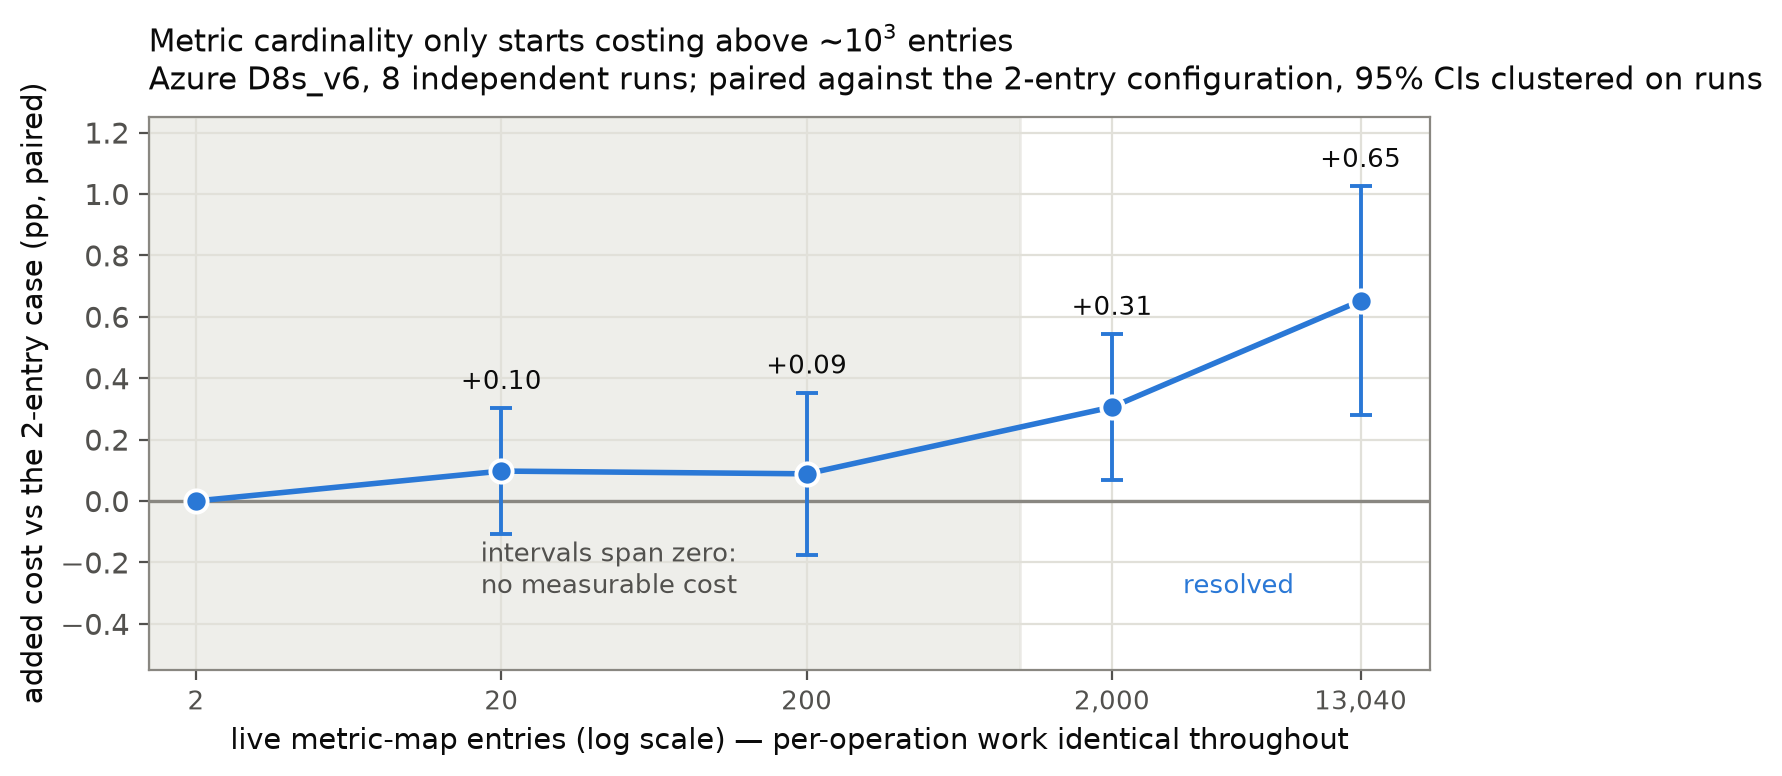
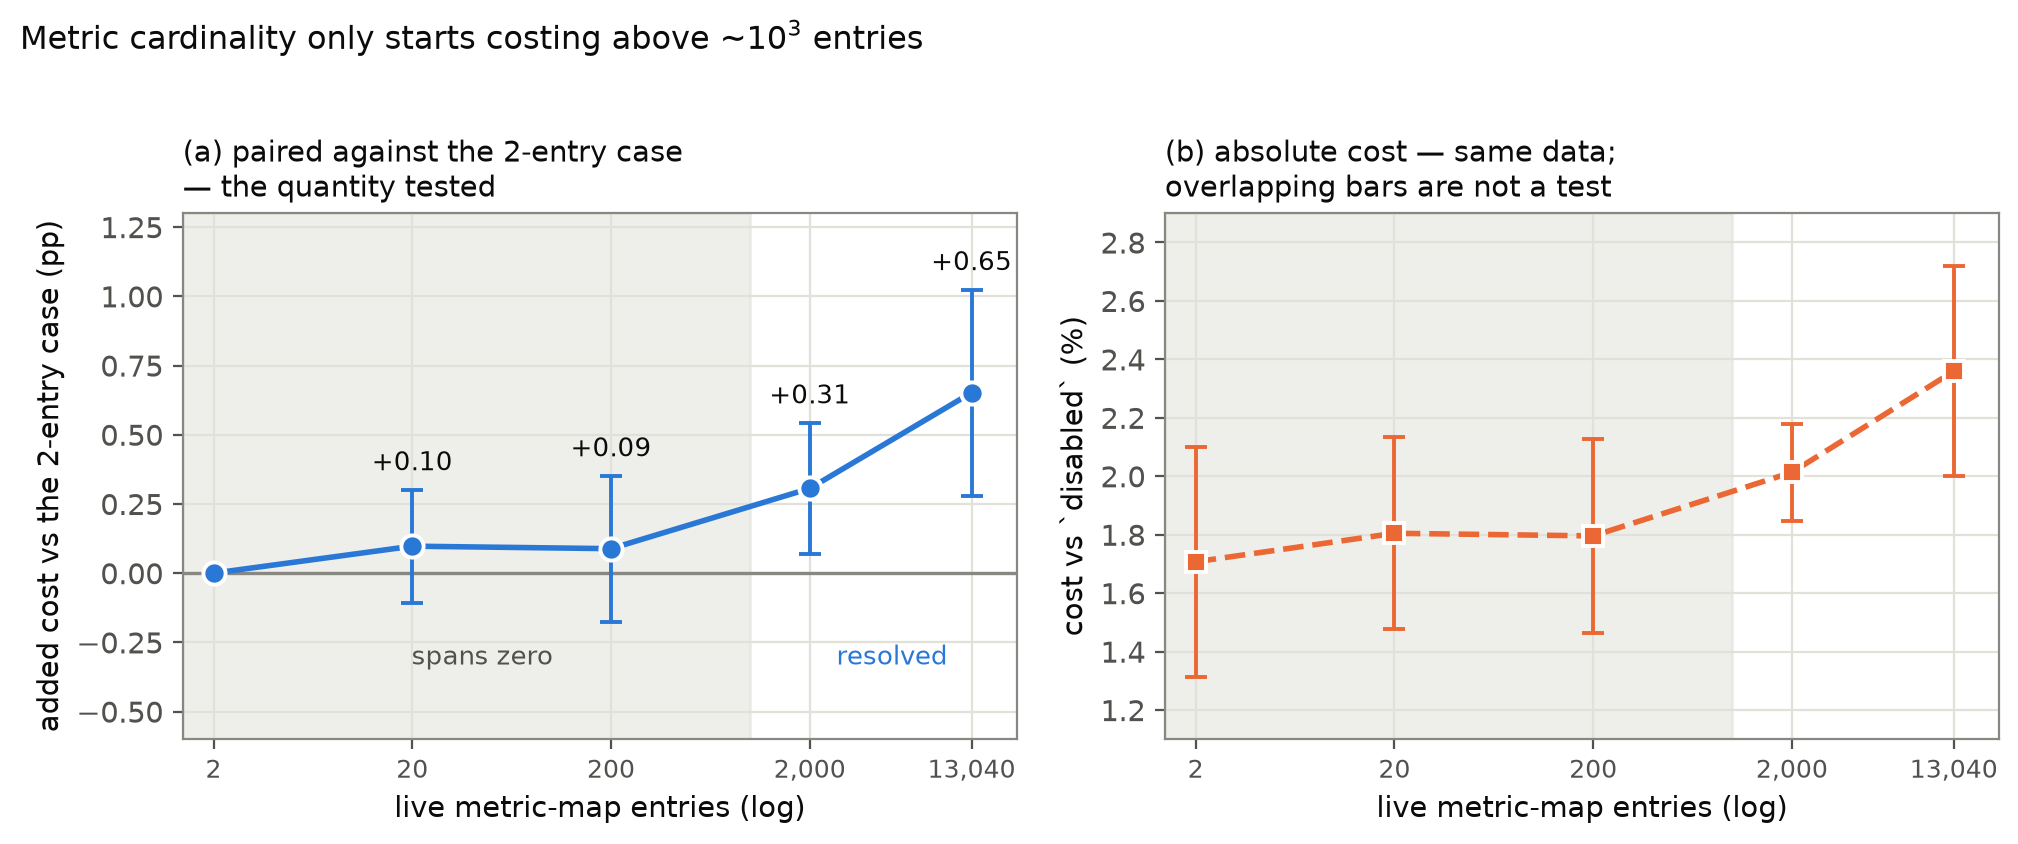
Show the cardinality curve both ways; rename paper to final_paper_v27.md
Figure 4 becomes two panels from the same data: (a) the paired difference
against the 2-entry configuration, which is the quantity actually tested, and
(b) each configuration's absolute cost. Panel (b) earns its place by showing
the error a reader makes without it: the absolute intervals overlap between
adjacent cardinalities, which resembles "no difference", but overlapping
intervals are not a test of a difference.

Corrects a claim I had put in that figure's title. I had asserted the
absolute intervals were "~3x wider" than the paired ones; measured, the
ratios are 1.61, 1.26, 0.70 and 0.97 -- comparable, and at 2,000 entries the
absolute interval is the narrower of the two. The paired comparison wins by
removing the baseline instrumentation cost common to every cardinality, not
by being tighter, and the caption now says that instead.

Renames docs/paper_design_axes.md to docs/final_paper_v27.md and updates
every reference in the READMEs, the follow-up protocol, and the three
scripts.

diff --git a/scripts/generate_design_axes_figures.py b/scripts/generate_design_axes_figures.py
@@ -1,5 +1,5 @@
 #!/usr/bin/env python3
-"""Figures for the design-axis paper (docs/paper_design_axes.md).
+"""Figures for the design-axis paper (docs/final_paper_v27.md).
 
 Every value plotted is recomputed here by importing the same helper functions
 that scripts/analyze_design_axes.py uses for its tables, so the figures and the
@@ -237,13 +237,21 @@ FOLLOWUP = ROOT / "experiments" / "azure_d8s_v6_followup" / "pooled" / "raw_data
 
 
 def figure4() -> None:
-    """Paired cost increase vs the 2-entry reference, as entry count sweeps.
+    """Cardinality curve, shown two ways.
 
-    Plots the PAIRED difference against the C=1 configuration, not each
-    configuration's absolute cost. That is the quantity actually tested: the
-    paired form cancels each run's level, so its interval is far tighter than
-    the absolute cost's and the resolved/unresolved verdict matches the bars a
-    reader sees.
+    (a) The PAIRED difference against the 2-entry configuration -- the quantity
+        actually tested, whose interval the resolved/unresolved verdict rests on.
+    (b) Each configuration's ABSOLUTE cost -- the magnitude a practitioner
+        budgets against.
+
+    Both are plotted because reading (b) alone invites a specific error. The
+    absolute intervals overlap heavily between adjacent cardinalities, which
+    looks like "no difference" -- but overlapping intervals are not a test of a
+    difference, and the paired comparison in (a), which cancels each run's
+    level before differencing, resolves the same effect cleanly. The two panels
+    carry the same data; only (a) is a hypothesis test. (The intervals are of
+    broadly similar width: the paired form wins by removing the shared baseline
+    cost, not by being tighter.)
     """
     if not FOLLOWUP.exists():
         print("  (skipping figure 4: follow-up dataset not present)")
@@ -252,42 +260,63 @@ def figure4() -> None:
     # data-plane entries = achieved - 2 control-plane entries (PING, CMDSTAT)
     points = [(1, 2), (10, 20), (100, 200), (1000, 2000), (10000, 13040)]
     base = "sharded_bucketed_c1"
-    xs, ys, los, his = [], [], [], []
-    for c, entries in points:
+    ent = [e for _, e in points]
+
+    paired, abso = [], []
+    for c, _ in points:
         cfg = f"sharded_bucketed_c{c}"
+        a = cluster_ci(by_run(blocks, lambda b, cfg=cfg: cost(b, cfg, "throughput")))
+        abso.append(a)
         if cfg == base:
-            xs.append(entries); ys.append(0.0); los.append(0.0); his.append(0.0)
-            continue
-        m, lo, hi = cluster_ci(by_run(blocks, contrast_fn(cfg, base, "throughput")))
-        xs.append(entries); ys.append(m); los.append(m - lo); his.append(hi - m)
+            paired.append((0.0, 0.0, 0.0))
+        else:
+            paired.append(cluster_ci(by_run(blocks, contrast_fn(cfg, base, "throughput"))))
 
-    fig, ax = plt.subplots(figsize=(7.4, 4.0))
-    ax.axhline(0, color="#898781", linewidth=1.2, zorder=1)
-    ax.axvspan(1.4, 1000, color="#e1e0d9", alpha=0.55, zorder=0)
-    ax.errorbar(xs, ys, yerr=[los, his], fmt="-", marker="o", color=AXIS_COLOR["CARD"],
-                linewidth=2, markersize=8, markeredgecolor="white", markeredgewidth=1.4,
-                ecolor=AXIS_COLOR["CARD"], elinewidth=1.4, capsize=4, zorder=3)
-    for x, y, h in zip(xs[1:], ys[1:], his[1:]):
-        ax.annotate(f"+{y:.2f}", (x, y + h), textcoords="offset points", xytext=(0, 7),
-                    ha="center", fontsize=9.5, color="#0b0b0b")
+    fig, (axa, axb) = plt.subplots(1, 2, figsize=(10.2, 4.1))
 
-    ax.set_xscale("log")
-    ax.set_xticks([x for _, x in points])
-    ax.set_xticklabels([f"{x:,}" for _, x in points], fontsize=9.5)
-    ax.minorticks_off()
-    ax.annotate("intervals span zero:\nno measurable cost", xy=(45, -0.30), ha="center",
-                fontsize=9.5, color="#52514e")
-    ax.annotate("resolved", xy=(5200, -0.30), ha="center", fontsize=9.5,
-                color=AXIS_COLOR["CARD"], fontweight="medium")
+    # (a) paired difference -- the tested quantity
+    ys = [v[0] for v in paired]
+    lo = [v[0] - v[1] for v in paired]
+    hi = [v[2] - v[0] for v in paired]
+    axa.axhline(0, color="#898781", linewidth=1.2, zorder=1)
+    axa.axvspan(1.4, 1000, color="#e1e0d9", alpha=0.55, zorder=0)
+    axa.errorbar(ent, ys, yerr=[lo, hi], fmt="-", marker="o", color=AXIS_COLOR["CARD"],
+                 linewidth=2, markersize=8, markeredgecolor="white", markeredgewidth=1.4,
+                 ecolor=AXIS_COLOR["CARD"], elinewidth=1.4, capsize=4, zorder=3)
+    for x, y, h in zip(ent[1:], ys[1:], hi[1:]):
+        axa.annotate(f"+{y:.2f}", (x, y + h), textcoords="offset points", xytext=(0, 7),
+                     ha="center", fontsize=9.5, color="#0b0b0b")
+    axa.annotate("spans zero", xy=(45, -0.33), ha="center", fontsize=9.5, color="#52514e")
+    axa.annotate("resolved", xy=(5200, -0.33), ha="center", fontsize=9.5,
+                 color=AXIS_COLOR["CARD"], fontweight="medium")
+    axa.set_ylabel("added cost vs the 2-entry case (pp)")
+    axa.set_ylim(-0.6, 1.3)
+    axa.set_title("(a) paired against the 2-entry case\n— the quantity tested",
+                  fontsize=10.5, loc="left")
 
-    ax.set_xlabel("live metric-map entries (log scale) — per-operation work identical throughout")
-    ax.set_ylabel("added cost vs the 2-entry case (pp, paired)")
-    ax.set_xlim(1.4, 22000)
-    ax.set_ylim(-0.55, 1.25)
-    ax.set_title("Metric cardinality only starts costing above ~10$^3$ entries\n"
-                 "Azure D8s_v6, 8 independent runs; paired against the 2-entry "
-                 "configuration, 95% CIs clustered on runs",
-                 fontsize=11, loc="left", pad=10)
+    # (b) absolute cost -- the magnitude, with its much wider interval
+    ys2 = [v[0] for v in abso]
+    lo2 = [v[0] - v[1] for v in abso]
+    hi2 = [v[2] - v[0] for v in abso]
+    axb.axvspan(1.4, 1000, color="#e1e0d9", alpha=0.55, zorder=0)
+    axb.errorbar(ent, ys2, yerr=[lo2, hi2], fmt="--", marker="s", color=AXIS_COLOR["PAYLOAD"],
+                 linewidth=2, markersize=7, markeredgecolor="white", markeredgewidth=1.4,
+                 ecolor=AXIS_COLOR["PAYLOAD"], elinewidth=1.4, capsize=4, zorder=3)
+    axb.set_ylabel("cost vs `disabled` (%)")
+    axb.set_ylim(1.1, 2.9)
+    axb.set_title("(b) absolute cost — same data;\noverlapping bars are not a test",
+                  fontsize=10.5, loc="left")
+
+    for ax in (axa, axb):
+        ax.set_xscale("log")
+        ax.set_xticks(ent)
+        ax.set_xticklabels([f"{e:,}" for e in ent], fontsize=9)
+        ax.minorticks_off()
+        ax.set_xlim(1.4, 22000)
+        ax.set_xlabel("live metric-map entries (log)")
+
+    fig.suptitle("Metric cardinality only starts costing above ~10$^3$ entries",
+                 fontsize=11.5, x=0.012, ha="left", y=1.02)
     fig.tight_layout()
     out = FIG_DIR / "axes_fig4_cardinality_curve.png"
     fig.savefig(out, dpi=200, bbox_inches="tight")

diff --git a/scripts/run_rmit_experiment.py b/scripts/run_rmit_experiment.py
@@ -69,7 +69,7 @@ BASE_STRATEGIES: List[StrategySpec] = [
     StrategySpec("sharded_n", "sharded_n", "Sharded-N"),
 ]
 
-#: Strategies added for the axis-decomposition follow-up (docs/paper_design_axes.md
+#: Strategies added for the axis-decomposition follow-up (docs/final_paper_v27.md
 #: section 7). They separate costs the original six confound:
 #:   thread_local_owned  - isolates owned-key allocation from the histogram payload
 #:   sharded_bucketed    - isolates map cardinality from everything else; its
@@ -121,7 +121,7 @@ def parse_args() -> argparse.Namespace:
         "--strategies",
         default="base",
         help="Which strategies to run: 'base' (the original six), 'decomposition' "
-             "(the axis-decomposition set for docs/paper_design_axes.md section 7), "
+             "(the axis-decomposition set for docs/final_paper_v27.md section 7), "
              "'all', or an explicit comma-separated list of strategy keys.",
     )
     p.add_argument(

diff --git a/scripts/analyze_design_axes.py b/scripts/analyze_design_axes.py
@@ -2,7 +2,7 @@
 """Factorial decomposition of per-command observability overhead into design axes.
 
 This script produces every number quoted in the design-axis paper
-(docs/paper_design_axes.md). It re-derives them from the committed raw CSVs,
+(docs/final_paper_v27.md). It re-derives them from the committed raw CSVs,
 so `python3 scripts/analyze_design_axes.py` regenerates the paper's tables.
 
 Background

diff --git a/docs/final_paper_v27.md b/docs/final_paper_v27.md
@@ -669,12 +669,17 @@ CARD, and we do not fold it into the headline.
 
 ![Cost against live metric-map entries](figures/axes_fig4_cardinality_curve.png)
 
-**Figure 4.** Added cost as the live entry count sweeps 3.5 decades with
-per-operation work held constant. Plotted as the *paired* difference against
-the 2-entry configuration — the quantity actually tested — so the intervals
-shown are the ones the resolved/unresolved verdict rests on; each
-configuration's absolute cost carries a much wider interval dominated by
-between-run level differences that the paired form cancels.
+**Figure 4.** Cost as the live entry count sweeps 3.5 decades with
+per-operation work held constant, shown two ways from the same data.
+**(a)** the *paired* difference against the 2-entry configuration — the
+quantity actually tested, and the intervals the resolved/unresolved verdict
+rests on. **(b)** each configuration's absolute cost. Panel (b) is included
+because reading it alone invites a specific error: its intervals overlap
+between adjacent cardinalities, which resembles "no difference", but
+overlapping intervals are not a test of a difference. The two forms have
+broadly similar interval widths here; the paired comparison wins by removing
+the baseline instrumentation cost common to every cardinality, not by being
+tighter.
 
 | Data entries | Cost vs `disabled` | vs 2 entries | |
 |---:|---:|---|---|

diff --git a/README.md b/README.md
@@ -232,7 +232,7 @@ cargo run --release --manifest-path benchmarks/Cargo.toml -- \
 
 ## Documentation
 
-- [docs/paper_design_axes.md](docs/paper_design_axes.md): **"Cardinality Before
+- [docs/final_paper_v27.md](docs/final_paper_v27.md): **"Cardinality Before
   Contention"** — the design-axis decomposition paper. Prices synchronization,
   cardinality, aggregation, and payload separately, and finds that metric
   cardinality costs 1.66x what the global-lock-to-sharded-map transition saves,

diff --git a/docs/README.md b/docs/README.md
@@ -3,7 +3,7 @@
 Two papers are written from the same experimental data, answering different
 questions:
 
-- [paper_design_axes.md](paper_design_axes.md): **"Cardinality Before
+- [final_paper_v27.md](final_paper_v27.md): **"Cardinality Before
   Contention"** — decomposes observability overhead into four design axes
   (synchronization, cardinality, aggregation, payload) and shows the
   cardinality axis dominates the synchronization axis, that the axes scale with

diff --git a/docs/followup_experiment_protocol.md b/docs/followup_experiment_protocol.md
@@ -1,7 +1,7 @@
 # Follow-up experiment: splitting the confounded design axes
 
 This protocol runs the experiment that resolves the principal internal-validity
-threat in [paper_design_axes.md](paper_design_axes.md) §3.3 and §7.
+threat in [final_paper_v27.md](final_paper_v27.md) §3.3 and §7.
 
 ## What question this answers
 
